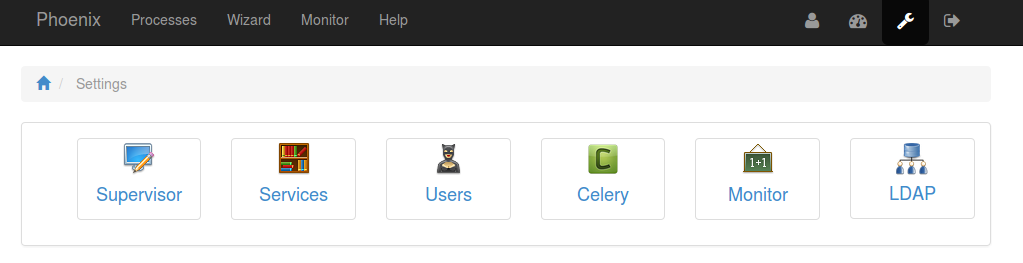
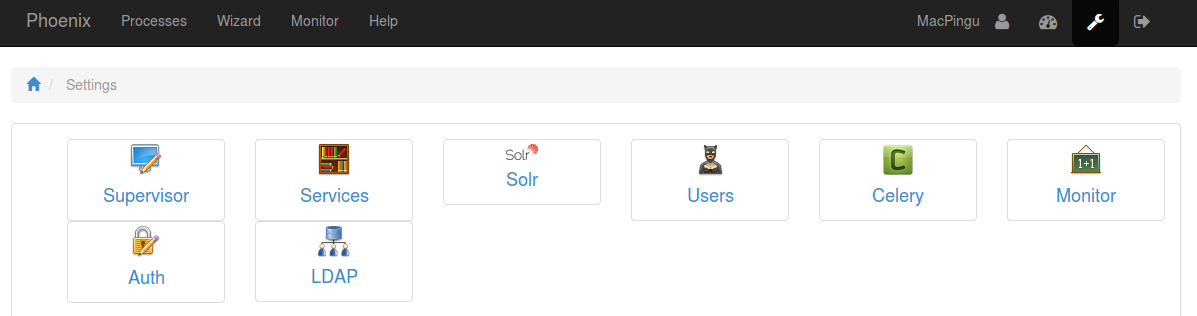
update docs: solr settings

diff --git a/docs/source/user_guide.rst b/docs/source/user_guide.rst
@@ -208,3 +208,26 @@ Basic support for authentication via LDAP has been added recently. To enable LDA
 .. image:: _images/settings_ldap.png
 
 There is no support for LDAP authorization yet. Use the ``Settings/Users`` backend to manage the access privileges for your users. There will be an entry for each user that has been logged in once before.
+
+Solr
+~~~~
+
+You can publish the datasets of a registered Thredds service to a Solr index server. The Solr server is setup with the Phoenix installation.
+
+.. image:: _images/solr_index.png
+
+Use the toggle button on the left side the Thredds service name to activate the publishing. Publishing takes some time. Use the reload button to update the status.
+The Solr search can then be used in the ``Wizard`` to select input files.
+
+To clear the whole Solr index use the trash button.
+
+The publisher has two parameters.
+
+maxrecords
+    Maximum number of datasets that will be published. Use -1 for unlimited.
+
+depth
+    The maximum depth level when crawling Thredds catalogs. Default is 2.
+
+.. image:: _images/solr_params.png
+   
